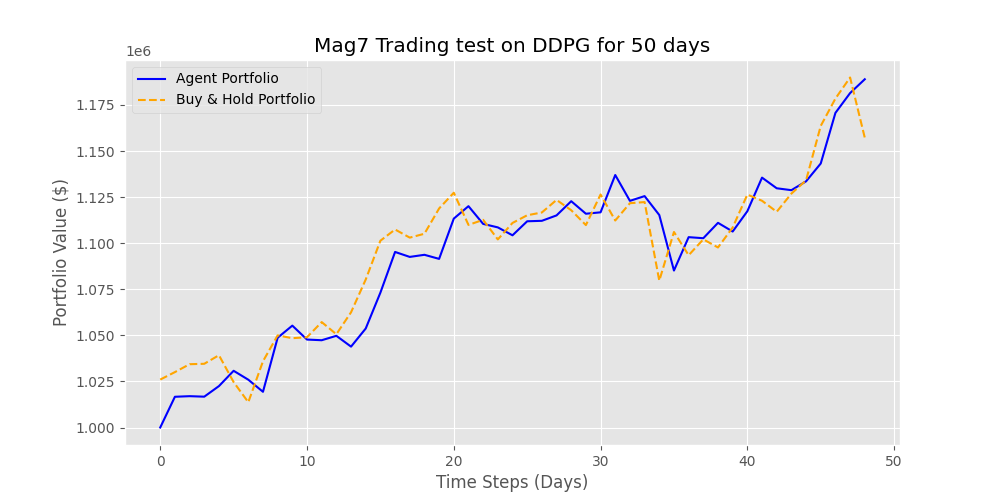
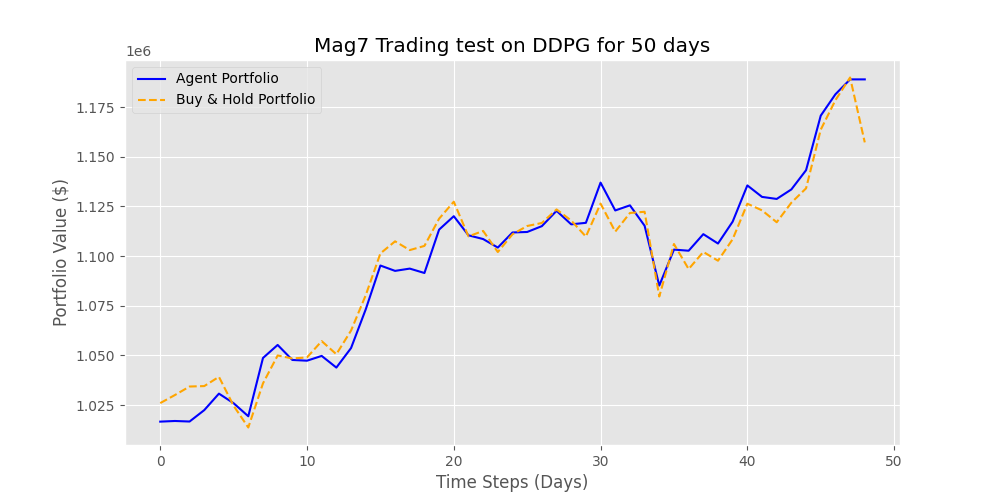
added test results

diff --git a/run_mag7.py b/run_mag7.py
@@ -22,10 +22,6 @@ if "../" not in sys.path: sys.path.append("../")
 from lib import plotting
 from Solvers.Abstract_Solver import AbstractSolver, Statistics
 import Solvers.Available_solvers as avs
-from lib.envs.gridworld import GridworldEnv
-from lib.envs.blackjack import BlackjackEnv
-from lib.envs.cliff_walking import CliffWalkingEnv
-from lib.envs.windy_gridworld import WindyGridworldEnv
 from lib.envs.mag7_trading import MAG7TradingEnv
 
 # ==========================================
@@ -42,16 +38,10 @@ def compute_indicators(df):
     exp1 = close.ewm(span=12, adjust=False).mean()
     exp2 = close.ewm(span=26, adjust=False).mean()
     macd = exp1 - exp2
-    # signal = macd.ewm(span=9, adjust=False).mean()
-    
-    # sma20 = close.rolling(window=20).mean()
-    # sma_ratio = close / sma20
 
     return pd.DataFrame({'RSI': rsi/100.0, 
-                         'MACD': macd,
-                        #  'Signal': signal,
-                        #  'SMA_Ratio': sma_ratio
-                         }).fillna(0)
+                         'MACD': macd
+                          }).fillna(0)
 
 def load_data_raw(data_dir="data"):
     """Loads data but returns raw arrays for splitting later."""
@@ -124,20 +114,64 @@ def getEnv(options, split='train', split_rate=0.8):
                           action_space_mode=options.action_space_mode)
 
 # ==========================================
-# 2. RUNNER & BACKTEST LOGIC
+# 2. PLOTTING & BACKTEST LOGIC
 # ==========================================
-def calculate_bnh(env):
-    """Calculate Buy & Hold Return for the current episode timeframe."""
-    try:
-        start_prices = env.prices[0, :, 3] # Index 0 relative to this dataset
-        end_prices = env.prices[env.t, :, 3]
-        start_prices = np.where(start_prices == 0, 1e-9, start_prices)
-        shares = (env.initial_cash / 7.0) / start_prices
-        final_val = np.sum(shares * end_prices)
-        return (final_val - env.initial_cash) / env.initial_cash
-    except: return 0.0
 
-def run_backtest(env, solver):
+def plot_training_curve(stats, model= "ML", outfile="out"):
+    """
+    Plots the Return (Reward) per episode and the Moving Average.
+    Saves the plot as a PNG and the data as a CSV.
+    """
+    # 1. Convert list of rewards to a Pandas Series
+    rewards = pd.Series(stats.episode_rewards)
+    
+    # 2. Calculate Rolling Average 
+    window_size = max(10, int(len(rewards) * 0.1))
+    rolling_avg = rewards.rolling(window=window_size, min_periods=1).mean()
+
+    # ==========================================
+    # [NEW] Save Training Data to CSV
+    # ==========================================
+    # Create a clean DataFrame for the CSV output
+    df_training = pd.DataFrame({
+        "Episode": range(1, len(rewards) + 1),
+        "Reward": rewards,
+        f"Moving_Avg_Window_{window_size}": rolling_avg
+    })
+
+    # Ensure Results directory exists
+    if not os.path.exists("Results"): 
+        os.makedirs("Results")
+
+    # Construct file path and save
+    csv_path = os.path.join("Results", f"{outfile}_training.csv")
+    df_training.to_csv(csv_path, index=False)
+    print(f"Training data saved to {csv_path}")
+    # ==========================================
+
+    # 3. Generate the Plot
+    plt.figure(figsize=(10, 5))
+    
+    # Plot Raw Returns
+    plt.plot(rewards, label='Episode Return', alpha=0.3, color='blue')
+    
+    # Plot Average Returns
+    plt.plot(rolling_avg, label=f'Avg Return (MA-{window_size})', color='red', linewidth=2)
+    
+    plt.title("Mag7 {} Return".format(model))
+    plt.xlabel("Episode")
+    plt.ylabel("Return ($)")
+    plt.legend()
+    plt.grid(True, alpha=0.3)
+    
+    # 4. Save the Chart
+    chart_path = os.path.join("Results", f"{outfile}_training.png")
+    plt.savefig(chart_path)
+    print(f"Training chart saved to {chart_path}")
+    
+    plt.show()
+
+def run_backtest(env, solver, options):
     """Runs a single full pass over the Test Data."""
     print("\n>>> STARTING BACKTEST ON 20% TEST DATA <<<")
     state, _ = env.reset()
@@ -156,36 +190,27 @@ def run_backtest(env, solver):
         # Greedy action (no noise)
         action = solver.select_action(state, training = False) 
         
-        
-        # if hasattr(action, 'detach'): #detach tensor to np if needed
-        #         action = action.detach().cpu().numpy()
-                
         state, reward, term, trunc, info = env.step(action)
         done = term or trunc
         
         # Track Agent Value
         agent_vals.append(info['portfolio_value'])
         
-        # Track Market Value (recalculated at every step for the plot)
+        # Track Market Value
         curr_prices = env.prices[env.t, :, 3]
-        mkt_val = np.sum(shares * curr_prices) + (initial_cash - np.sum(shares * start_prices)) # Approx
-        # Easier: Just track the value of the basket
         market_vals.append(np.sum(shares * curr_prices))
     
     if options.outfile:
-        # 1. Define and create directory if missing
         results_dir = "Results"
         if not os.path.exists(results_dir):
             os.makedirs(results_dir)
 
-        # 2. Create dataframe
         df_results = pd.DataFrame({
             "Time_Step": range(len(agent_vals)),
             "Agent_Value": agent_vals,
             "Market_Value": market_vals
         })
         
-        # 3. Construct full path
         fname = options.outfile
         full_path = os.path.join(results_dir, fname)
         data_path = full_path + '.csv'
@@ -206,19 +231,15 @@ def run_backtest(env, solver):
     chart_path = full_path + '.png'
     plt.savefig(chart_path)
     
-    
     print(f"Saved test results saved to {data_path}")
     print(f"Saved chart saved to {chart_path}")
     
-    # Calculate final returns for summary
     agent_ret = (agent_vals[-1] - initial_cash) / initial_cash
     mkt_ret = (market_vals[-1] - initial_cash) / initial_cash
-    print(f"Results saved to {full_path}")
     print(f"Final Agent Return: {agent_ret:.2%}")
     print(f"Final Market Return: {mkt_ret:.2%}")
     
     plt.show()
-    
 
 def build_parser():
     parser = optparse.OptionParser()
@@ -240,12 +261,10 @@ def build_parser():
     parser.add_option("-d", "--data_dir", dest="data_dir", default="data")
     parser.add_option("-A", "--action_space_mode", dest="action_space_mode", default="multidiscrete")
     
-    # --- FIX: Added explicit 'dest' arguments here ---
     parser.add_option("-m", "--replay", type="int", dest="replay_memory_size", default=100000)
     parser.add_option("-N", "--update", type="int", dest="update_target_estimator_every", default=1000)
     parser.add_option("-b", "--batch_size", type="int", dest="batch_size", default=64)
     parser.add_option("-x", "--experiment_dir", dest="experiment_dir", default="Experiments")
-    
     
     parser.add_option("--no-plots", action="store_true", dest="disable_plots", default=False)
     parser.add_option("--rand-start", action="store_true", dest="random_start", default=False)
@@ -286,9 +305,13 @@ def main(options):
         
         print(f"Episode {i+1}: Reward {rew:.4f}")
 
-    # 4. Backtest Phase
+    # 4. Plot Training Stats (Return & Return Avg)
     if not options.disable_plots:
-        run_backtest(test_env, solver)
+        plot_training_curve(stats, model=str(solver), outfile=options.outfile)
+
+    # 5. Backtest Phase
+    if not options.disable_plots:
+        run_backtest(test_env, solver, options)
         
     return {"stats": stats, "solver": solver}
 
